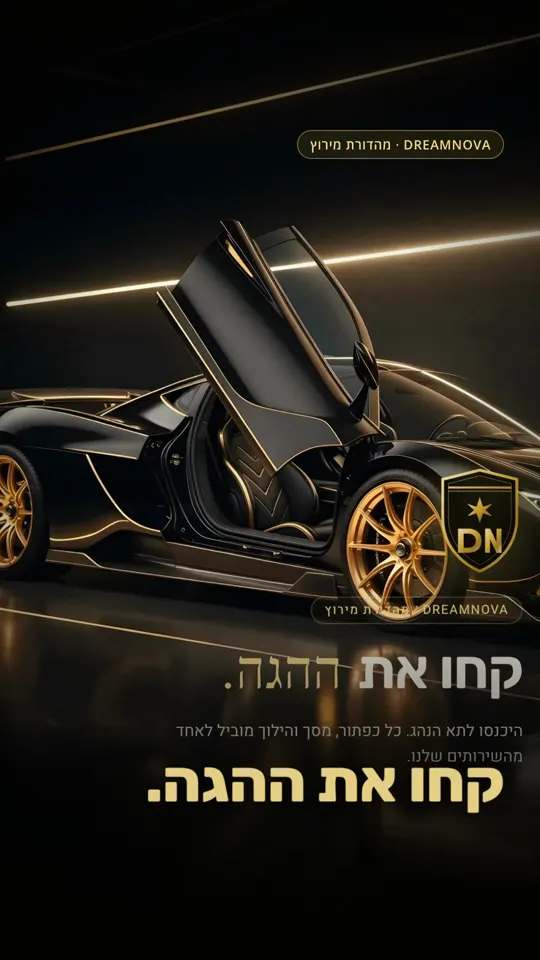
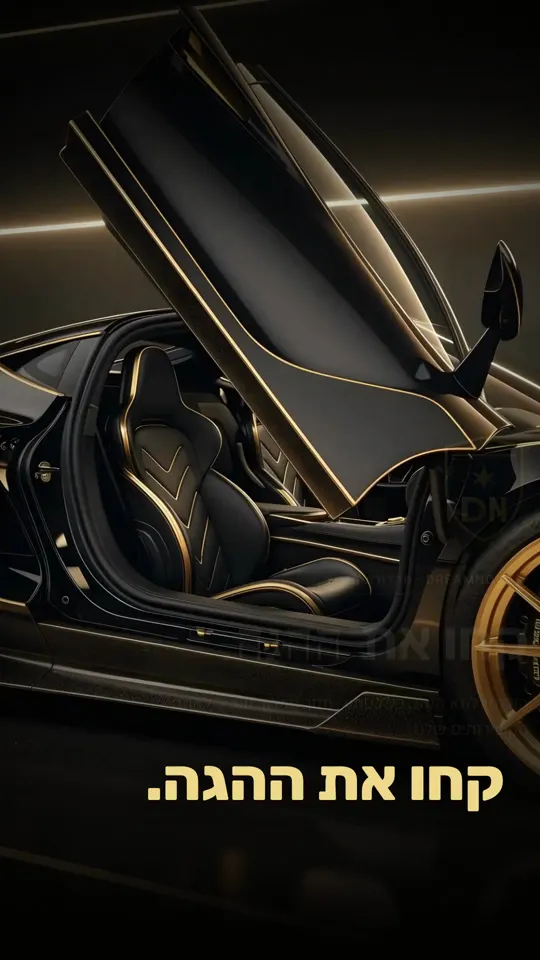
polish(R7): scrim sans bord sur la visite, reels en deux colonnes, visuel de service plein cadre sans légende et plans inédits, salles sans double exposition, index resserré, apparitions figées proprement, affiche du reel 1 sans fantôme

diff --git a/svc.js b/svc.js
@@ -13,7 +13,7 @@
   const offers = s.o.map(k => D.OFFERS[L][k]).filter(Boolean);
   const nxt = D.SVC[(i + 1) % D.SVC.length], nsv = D.SERVICES[(i + 1) % D.SVC.length][L];
   const vid = s.v ? `${BASE}assets/${s.v}` : "";
-  const ALT = { film: "reel/animation_pipeline_02.mp4", web: "car2/accel_v2.mp4", crm: "car/cockpit.mp4", agents: "space/satellite.mp4", marketing: "reel/adcreative_pipeline_05.mp4", private: "space/orbit.mp4", "3d": "space/rocket.mp4", consult: "scenes/mountain.mp4" };
+  const ALT = { film: "reel/subtitled_pipeline_03.mp4", web: "car2/accel.mp4", crm: "car/cockpit.mp4", agents: "reel/adcreative_pipeline_05.mp4", marketing: "scenes/parachute.mp4", private: "space/orbit.mp4", "3d": "space/rocket.mp4", consult: "scenes/mountain.mp4" }; // plans absents de l'accueil autant que possible
   const vid2 = `${BASE}assets/${ALT[id] || "space/rocket.mp4"}`;
   $("#app").innerHTML = `
   <header class="nav nav--svc"><a href="${BASE}${L}/#drive" class="nav__brand"><img class="nav__crest" src="${BASE}assets/brand/crest.svg" alt="" width="26" height="32"><span class="nav__name">DreamNova</span></a>
@@ -37,7 +37,7 @@
     const u = w.u && w.u.replace("{l}", L);
     return `<${u ? "a" : "div"} class="pj r" ${u ? `href="${u}" target="_blank" rel="noopener"` : ""}><img class="pj__img" src="${BASE}assets/work/gal_${w.id}${w.id === "site3d" ? "_" + L : ""}.webp"${w.demo && w.demo !== L ? ` data-demo="${w.demo}"` : ""} alt="${esc(w.t[L])}" loading="lazy"><div class="pj__b"><div><div class="pj__s">${esc(w.s[L])}</div><div class="pj__t">${esc(w.t[L])}</div></div><span class="pj__a">${esc(u ? T["work.visit"].replace("↗", ARROW) : T["work.private"])}</span></div></${u ? "a" : "div"}>`;
   }).join("")}</div></section>` : ""}
-  ${!s.films ? `<section class="svc-visual"><video data-src="${vid2}" muted loop playsinline preload="none"></video><div class="svc-visual__cap"><span class="eyebrow eyebrow--gold">${esc(s.part[L])}</span><b>${esc(sv[0])}</b></div></section>` : ""}
+  ${!s.films ? `<section class="svc-visual"><video data-src="${vid2}" muted loop playsinline preload="none"></video></section>` : ""}
   ${(() => { const B = D.BUILD && D.BUILD[id] && D.BUILD[id][L]; if (!B) return "";
     const H = { he: ["איך אנחנו בונים", "הטכנולוגיה", "מה תקבלו", "שאלות נפוצות"], en: ["How we build it", "The stack", "What you get", "FAQ"], fr: ["Comment on le construit", "Les technologies", "Ce que vous recevez", "Questions fréquentes"] }[L];
     return `<section class="svc-build"><p class="eyebrow eyebrow--gold">${esc(H[0])}</p><h2 class="h2 svc-build__t">${esc(B.intro)}</h2>

diff --git a/app.js b/app.js
@@ -265,7 +265,7 @@ function intro() {
 
   // apparitions
   ScrollTrigger.batch(".reveal:not(.who):not(.step):not(.lc):not(.off)", { start: mobile() ? "top 100%" : "top 88%", once: true,
-    onEnter: b => gsap.to(b, { opacity: 1, y: 0, filter: "blur(0px)", duration: mobile() ? .45 : .6, ease: "expo.out", stagger: mobile() ? .03 : .05, overwrite: true, clearProps: "transform" }) });
+    onEnter: b => gsap.to(b, { opacity: 1, y: 0, filter: "blur(0px)", duration: mobile() ? .45 : .6, ease: "expo.out", stagger: mobile() ? .03 : .05, overwrite: true, clearProps: "transform", onComplete: () => b.forEach(e => e.classList.add("is-in")) }) });
   // titres : mot par mot derrière un masque
   $$(".sec-head .h2,.rooms__title").forEach(h => { h.innerHTML = h.textContent.split(" ").map(w => `<span class="wm"><span>${esc(w)}</span></span>`).join(" "); });
   gsap.utils.toArray(".sec-head").forEach(h => {
@@ -280,7 +280,7 @@ function intro() {
   gsap.set(SPIN, { transformPerspective: 1100 });
   ScrollTrigger.batch(SPIN, { start: TOUCH ? "top 100%" : "top 90%", once: true, onEnter: b => gsap.fromTo(b,
     TOUCH ? { rotationY: (RTL ? -1 : 1) * 55, rotationX: 10, y: 34, opacity: 0, transformOrigin: "50% 50% -80px" } : { y: 28, opacity: 0 },
-    TOUCH ? { rotationY: 0, rotationX: 0, y: 0, opacity: 1, duration: .9, ease: "expo.out", stagger: .05, overwrite: true, clearProps: "transform" } : { y: 0, opacity: 1, duration: .5, ease: "power2.out", stagger: .05, overwrite: true, clearProps: "transform" }) });
+    TOUCH ? { rotationY: 0, rotationX: 0, y: 0, opacity: 1, duration: .9, ease: "expo.out", stagger: .05, overwrite: true, clearProps: "transform", onComplete: () => b.forEach(e => e.classList.add("is-in")) } : { y: 0, opacity: 1, duration: .5, ease: "power2.out", stagger: .05, overwrite: true, clearProps: "transform", onComplete: () => b.forEach(e => e.classList.add("is-in")) }) });
   $$(".who").forEach(el => el.addEventListener("pointerenter", () => {
     if (el._spin || matchMedia("(hover: none)").matches) return; el._spin = 1;
     gsap.fromTo(el, { rotationY: 0 }, { rotationY: (RTL ? -360 : 360), duration: 1.25, ease: "power3.inOut", onComplete: () => { gsap.set(el, { rotationY: 0 }); el._spin = 0; } });

diff --git a/style.css b/style.css
@@ -1044,3 +1044,11 @@ body:has(.cp-panel.is-open) .gear,body.no-fab .gear,body.svc-open .gear{opacity:
 .svc-hero__num{opacity:.38}
 @media (max-width:767px){.svc-hero__num{font-size:120px;top:12vh;inset-inline-end:-6px;opacity:.25}}
 .chap__layer{transition:opacity .6s var(--ease)}
+/* R7 web (8,66 / DA 8,8) : finitions — titre de la visite sans boîte, reels en deux colonnes, visuel de service vrai plein cadre, index resserré, apparitions figées proprement */
+.rooms__head{padding:0;margin:0;background:none;border-radius:0}
+.rooms__head::before{content:"";position:absolute;inset:-90px -140px -70px -120px;z-index:-1;background:radial-gradient(closest-side,rgba(3,2,2,.75),rgba(3,2,2,.35) 55%,transparent);pointer-events:none}
+.svc-visual{width:100vw;margin-inline:calc(50% - 50vw);box-shadow:none;border-radius:0}
+.svc-visual__cap{display:none}
+#index{padding-bottom:72px}
+.reveal.is-in{opacity:1;transform:none;filter:none}
+@media (min-width:1100px){.reels{display:grid;grid-template-columns:1fr minmax(0,560px);column-gap:56px;align-items:center}.reels .sec-head{grid-column:1;margin-bottom:0}.reels .sec-cta{grid-column:1;margin-top:22px;justify-self:start}.reels__strip{grid-column:2;grid-row:1/3;justify-content:center}}

diff --git a/rooms.js b/rooms.js
@@ -156,7 +156,7 @@ function start() {
       const d = p.g.position.z - z; // négatif = devant la caméra
       const dist = -d;
       // l'écran s'efface quand on le traverse
-      p.screen.material.opacity = THREE.MathUtils.clamp((dist - 3.5) / 4, 0, 1);
+      p.screen.material.opacity = THREE.MathUtils.clamp((dist - 3.5) / 4, 0, 1) * THREE.MathUtils.clamp((GAP * 1.45 - dist) / 3, 0, 1); // visible seulement dans sa fenêtre : pas deux salles à la fois
       p.halo.material.opacity = 0.45 * THREE.MathUtils.smoothstep(dist, 3, 10);
       
       if (p.video) {
